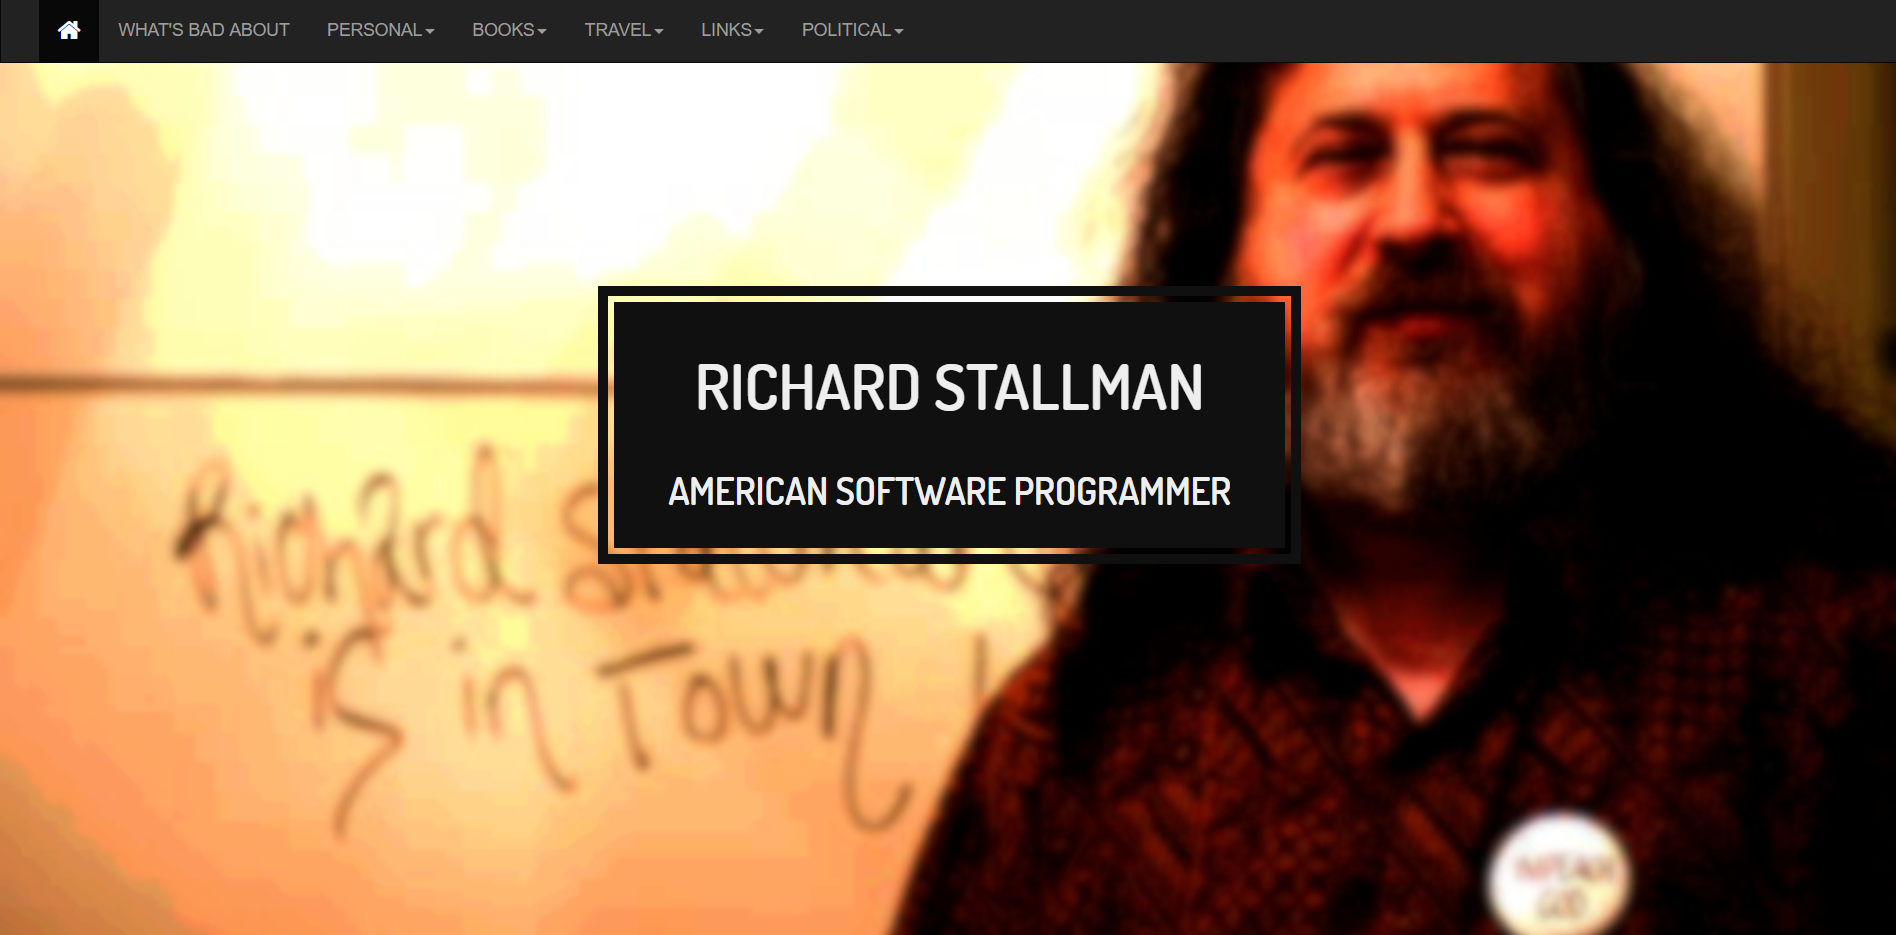
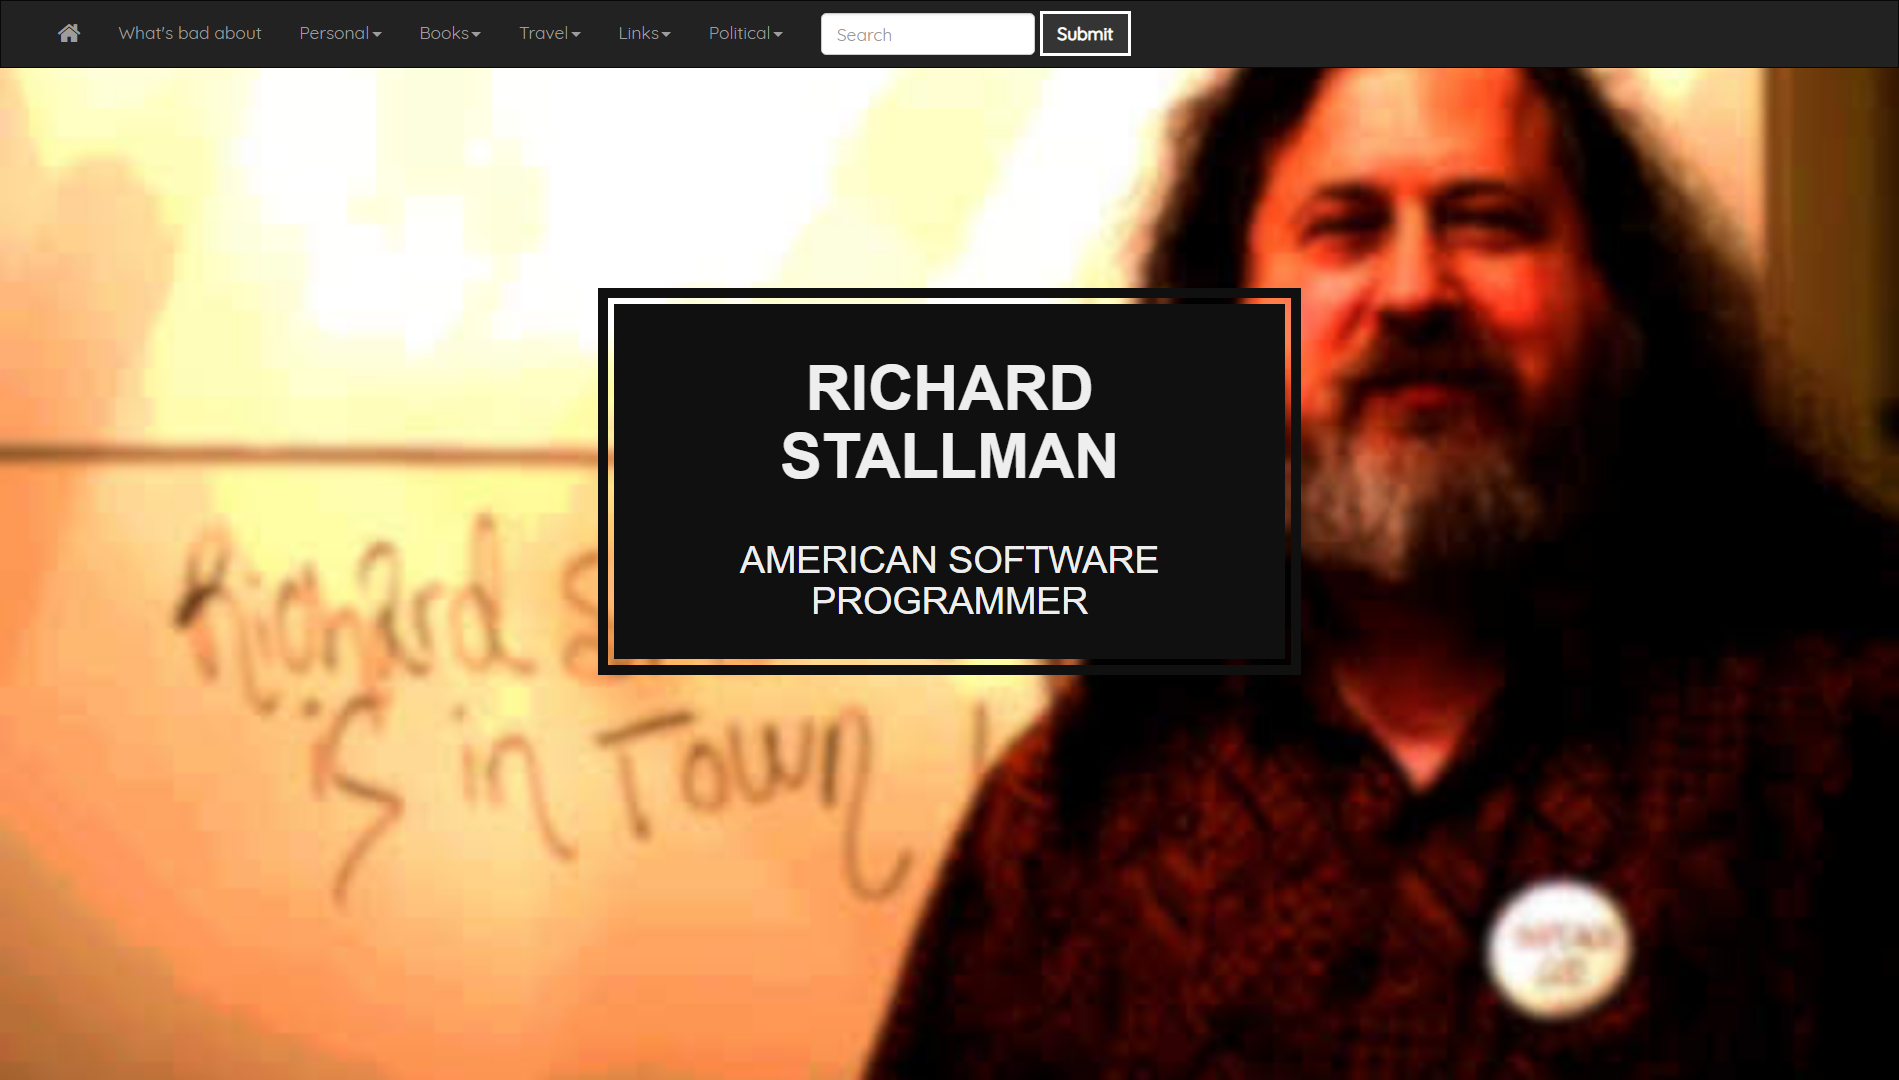
a

diff --git a/main.css b/main.css
@@ -126,7 +126,7 @@ body {
     animation-duration: 1s;
     animation-fill-mode: both;
     animation-name: aa;
-    animation-delay: 3.5s;
+    animation-delay: 3.25s;
 }
     @-webkit-keyframes fadeInDown {
             0% {
@@ -224,14 +224,25 @@ body {
             animation-fill-mode: both;
 	    -webkit-animation-name: aa;
             animation-name: aa;
-	    animation-delay: 5s;
-	    -webkit-animation-delay: 5s;
+	    animation-delay: 4s;
+	    -webkit-animation-delay: 4s;
 	}
     
     #about .about-head h2{
         font-family: 'Raleway', sans-serif;
         font-weight: 300;
     }
+
+.about-head h2{
+        font-family: 'Raleway', sans-serif;
+        font-weight: 300;
+    }
+
+.about-head hr {
+    border-top:solid 2px #86c232;
+    width: 20%;
+}
+
 
 #contact .about-head h2{
         font-family: 'Raleway', sans-serif;
@@ -345,84 +356,9 @@ display: contents}
 .people .description:hover span.abcdef {
 display: none}
     
-    #works .row .col-md-4 h2 {
-        font-family: 'Raleway', sans-serif;
-        font-weight: 300;
-        text-align: left;
-    }
     
-    .row {
-        margin: 0;
-    }
     
-    #works {
-        padding-top: 50;
-        padding-bottom: 50;
-        color: #474b4f;
-        padding-left: 200;
-    }
-	
-    
-    #works .row .col-md-4 {
-        border-right: 2px solid #afafaf;
-        padding-left: 200;
-        margin-bottom: 20px;
-    }
-    
-    #works .row .col-md-6 p {
-        font-family: 'Raleway', sans-serif;
-        font-weight: 300;
-        padding-top: 20;
-        text-align: left;
-    }
-	
-    
-    hr {
-        margin-left: 70px;
-        margin-right: 70px;
-    }
-    
-    .image {
-        width: 50%;
-    }
-    
-    .image img {
-        width: 100%;
-    }
-    
-    #people .image {
-        width: 25%;
-    }
-    
-    .written {
-        width: 30%;
-    }
-  
-    #people .written {
-        padding-top: 10%;
-    }
-    #works .abc .written h3 {
-        color: black;
-        font-size: 30;
-        text-align: left;
-    }
-    
-    #people .abc .written h3 {
-        color: black;
-        font-size: 30;
-        text-align: left;
-    }
-    
-    .abc .col-sm-6 {
-        padding-left: 0;
-    }
-    
-    #works .abc {
-        border-right: none;
-        margin-top: 50;
-        padding-left: 60;
-        text-align: left;
-    }
+
     #people .abc {
         border-right: none;
         margin-top: 50;
@@ -519,8 +455,8 @@ display: none}
 }
 
 #contact form input[type=email], input[type=text], textarea {
-    border: #53791f solid 2px;
-    border-radius: 30px;
+    border: transparent solid 2px;
+    border-bottom-color: #53791f;
     padding: 10;
     justify-content: center;
     align-content: center;
@@ -532,7 +468,7 @@ display: none}
 }
 
 #contact form textarea {
-    width: 280
+    width: 280;
 }
 
 input[type="submit"] {
@@ -554,17 +490,56 @@ input[type="submit"]:hover{
 }
 
 #contact form input[type="email"]:focus-within {
-    border: #86c232 solid 2px;
+    border: transparent solid 2px;
+    border-bottom-color: #86c232;
     width: 300px;
 }
 
 #contact form input[type="text"]:focus-within {
-    border: #86c232 solid 2px;
+    border: transparent solid 2px;
+    border-bottom-color: #86c232;
     width: 300px;
 }
 
 #contact form textarea:focus-within {
-    border: #86c232 solid 2px;
+    border: transparent solid 2px;
+    border-bottom-color: #86c232;
     width: 320px;
+}
+
+
+
+
+#works .image{
+  overflow: hidden;
+  cursor: pointer;    
+}
+
+#works .image img{
+  width: 25%;
+  transition: 0.4s;
+    margin: 5px;
+}
+
+#works .image:hover img{
+  transform: scale(1.05);
+}
+
+@media screen and (max-width:960px) {
+  #works .image{
+    flex: 33.33%;
+  }
+}
+
+@media screen and (max-width:768px) {
+  #works .image{
+    flex: 50%;
+  }
+}
+
+@media screen and (max-width:480px) {
+  #works .image{
+    flex: 100%;
+  }
 }
 

diff --git a/index.html b/index.html
@@ -24,12 +24,13 @@
     </div>  
     <div class="mainBod" id="mainBod">
 <div class="navbar">
-  <a href="#home">Home</a>
+  <a href="#home" class="home-a">Home</a>
   <a href="#about">About Me</a>
   <a href="#works">Works</a>
   <a href="#people">Affiliations</a>
   <a href="#contact">Contact Me</a>
 </div>    
+        
 <div id="home">
 <div class="heading animated fadeInDown">
 <center>
@@ -57,58 +58,36 @@
     <hr>
 <div id="works">
     <center>
-<div class="row">
-<div class="col-md-4">
+<div class="about-head">
 <h2>Works</h2>    
-</div>    
-<div class="col-md-6">
-<p><b>The websites designed by Naman Chandok.</b></p>    
-</div>
+    <hr>
 </div> 
-    
-<div class="row abc">
-<div class="image col-sm-6">
-<img src="images/works1.png">
-</div>
-<div class="written col-sm-6">
-<h3>Team Vulcan</h3>
-<p>Website designed for a team in the competition F1 in Schools India: Season 2.</p>
-<p>See it here: <a href="https://teamvulcantis.github.io/" target="_blank">teamvulcantis.github.io</a>
-</div>
-</div>
-<div class="row abc right">
-<div class="written col-md-6">
-<h3>Richard Mathew Stallman</h3>
-<p>Website designed for a prelim submission at a competition Byite.it at Bal Bharti School, Pitampura, with the help of Namya Chabbra.</p>
-<p>See it here: <a href="https://namanchandok.github.io/stallman/index.html" target="_blank">namanchandok.github.io/stallman</a>
-</div>
-<div class="image col-md-6">
-<img src="images/works2.png">
-</div>
-</div>
+        
+    <div class="gallery">
 
-<div class="row abc">
-<div class="image col-sm-6">
-<img src="images/works3.PNG">
-</div>
-<div class="written col-sm-6">
-<h3>Tony Stark</h3>
-<p>Website designed as a tribute to Tony Stark, the Iron Man in the Marvel Universe</p>
-<p>See it here: <a href="https://namanchandok.github.io/tonystark/index.html" target="_blank">namanchandok.github.io/tonystark</a>
-	</div></div>
-	
-<div class="row abc right">
-<div class="written col-md-6">
-<h3>Autopilot Cars</h3>
-<p>Website designed about autopilot cars, with the help of Devansh Pandita.</p>
-<p>See it here: <a href="https://namanchandok.github.io/autopilot" target="_blank">namanchandok.github.io/autopilot</a>
-</div>
-<div class="image col-md-6">
-<img src="images/works4.PNG">
-</div>
-</div>
-</center>
-</div>
+          <a href="https://teamvulcantis.github.io/" target="_blank" class="image">
+            <img src="images/works1.png" alt="">
+          </a>
+
+          <a href="https://namanchandok.github.io/stallman/index.html" target="_blank" class="image">
+            <img src="images/works2.png" alt="">
+          </a>
+
+          <a href="https://namanchandok.github.io/tonystark/index.html" target="_blank" class="image">
+            <img src="images/works3.PNG" alt="">
+          </a>
+
+          <a href="https://namanchandok.github.io/autopilot" target="_blank" class="image">
+            <img src="images/works4.PNG" alt="">
+          </a>
+
+          <a href="https://namanchandok.github.io/dynamix19" target="_blank" class="image">
+            <img src="images/works5.png" alt="">
+          </a>
+        </div>
+    </center>
+        </div>
+
 <hr>
     
     
@@ -189,7 +168,7 @@
 </div>
 </center>
     </div>
-    </div>
+                </div>
     </div>
 <script>
 var myVar;
@@ -201,6 +180,7 @@ function showPage() {
   document.getElementById("load").style.display = "none";
   document.getElementById("mainBod").style.display = "block";
 } 
+    
 jQuery(document).on("scroll", function () {
     if ($(document).scrollTop() > 120) {
         $(".navbar").css("background-color","#2a2a2a");
@@ -241,6 +221,7 @@ $(document).ready(function(){
         $(".people").removeClass("active");
         $("#"+$(this).attr("alt")).addClass("active");
       })
+    
     
 </script>
     
